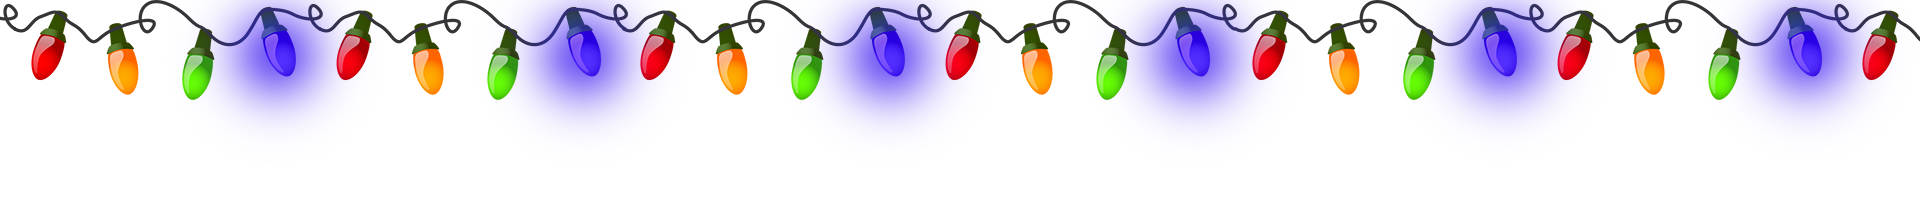
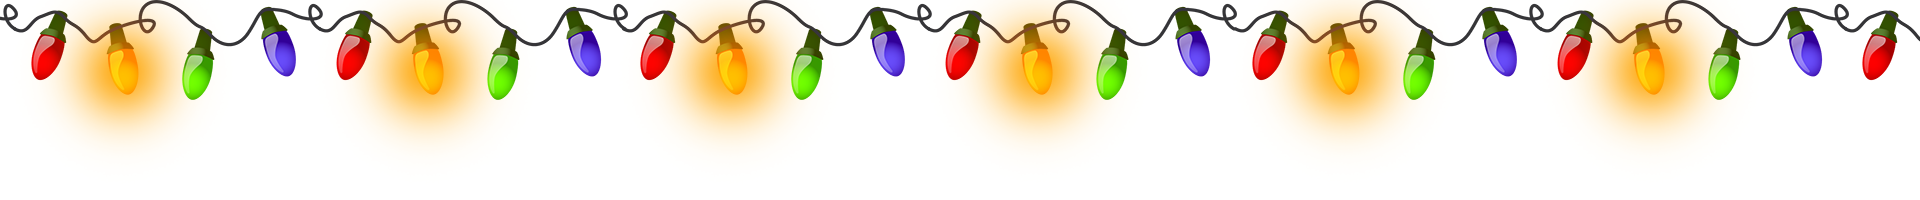
Changed Idle view to use SpriteKit for text and lights Plus implemented proper Z positioning in the SKScene

diff --git a/Quiz Server/Quiz Server/IdleViewController.swift b/Quiz Server/Quiz Server/IdleViewController.swift
@@ -12,7 +12,6 @@ import SpriteKit
 class IdleViewController: NSViewController {
 
     @IBOutlet weak var skView: SKView!
-    @IBOutlet weak var lights: NSImageView!
     
     let scene = SKScene()
     let snow = SKEmitterNode(fileNamed: "Snow")!
@@ -23,26 +22,97 @@ class IdleViewController: NSViewController {
         super.viewDidLoad()
         
         // Set up SpriteKit scene/view
+		skView.ignoresSiblingOrder = true
         scene.size = skView.bounds.size
         scene.backgroundColor = NSColor.blackColor()
 		let bgImage = SKSpriteNode(imageNamed: "1")
 		bgImage.position = CGPoint(x: scene.size.width / 2, y: scene.size.height / 2)
 		bgImage.size = scene.size
+		bgImage.zPosition = 0
         snow.position = CGPoint(x: scene.size.width / 2, y: scene.size.height + 16)
 		snow.particleBirthRate = 40
+		snow.zPosition = 11
 		
 		for i in 0...9 {
 			let snowmoji = SKEmitterNode(fileNamed: "Snowmoji")!
 			snowmoji.particleTexture = SKTexture(imageNamed: "snowmoji\(i)")
 			snowmoji.position = CGPoint(x: scene.size.width / 2, y: scene.size.height + 32)
+			snowmoji.zPosition = CGFloat(i + 1)
 			snowmojis.append(snowmoji)
 		}
 		
-		scene.addChild(bgImage)
+		let text1 = SKLabelNode(fontNamed: ".AppleSystemUIFontBold")
+		text1.text = "Computer Science"
+		text1.fontSize = 140
+		text1.horizontalAlignmentMode = .Center
+		text1.verticalAlignmentMode = .Center
+		text1.position = CGPoint(x: 0, y: 72)
+		text1.zPosition = 14
+		text1.fontColor = NSColor.whiteColor()
+		
+		let text2 = SKLabelNode(fontNamed: ".AppleSystemUIFontBold")
+		text2.text = "Christmas Quiz 2015"
+		text2.fontSize = 140
+		text2.horizontalAlignmentMode = .Center
+		text2.verticalAlignmentMode = .Center
+		text2.position = CGPoint(x: 0, y: -85)
+		text2.zPosition = 14
+		text2.fontColor = NSColor.whiteColor()
+		
+		let text = SKNode()
+		text.position = CGPoint(x: 960, y: 820)
+		text.zPosition = 14
+		text.addChild(text1)
+		text.addChild(text2)
+		
+		let shadowText1 = SKLabelNode(fontNamed: ".AppleSystemUIFontBold")
+		shadowText1.text = "Computer Science"
+		shadowText1.fontSize = 140
+		shadowText1.fontColor = NSColor(white: 0.0, alpha: 0.8)
+		shadowText1.horizontalAlignmentMode = .Center
+		shadowText1.verticalAlignmentMode = .Center
+		shadowText1.position = CGPoint(x: 0, y: 72)
+		shadowText1.zPosition = 13
+		
+		let shadowText2 = SKLabelNode(fontNamed: ".AppleSystemUIFontBold")
+		shadowText2.text = "Christmas Quiz 2015"
+		shadowText2.fontSize = 140
+		shadowText2.fontColor = NSColor(white: 0.0, alpha: 0.8)
+		shadowText2.horizontalAlignmentMode = .Center
+		shadowText2.verticalAlignmentMode = .Center
+		shadowText2.position = CGPoint(x: 0, y: -85)
+		shadowText2.zPosition = 13
+		
+		let textShadow = SKEffectNode()
+		textShadow.shouldEnableEffects = true
+		textShadow.shouldRasterize = true
+		textShadow.zPosition = 13
+		let filter = CIFilter(name: "CIGaussianBlur")
+		filter?.setDefaults()
+		filter?.setValue(25, forKey: "inputRadius")
+		textShadow.filter = filter;
+		textShadow.position = CGPoint(x: 960, y: 820)
+		textShadow.addChild(shadowText1)
+		textShadow.addChild(shadowText2)
+		
+		let lights = SKSpriteNode(imageNamed: "lights")
+		lights.position = CGPoint(x: 960, y: 985)
+		lights.zPosition = 12
+		var lightsTextures = [SKTexture]()
+		for i in 1...4 {
+			lightsTextures.append(SKTexture(imageNamed: "lights\(i)"))
+		}
+		let lightsAction = SKAction.repeatActionForever(SKAction.animateWithTextures(lightsTextures, timePerFrame: 1.0))
+		lights.runAction(lightsAction)
+		
 		for node in snowmojis {
 			scene.addChild(node)
 		}
+		scene.addChild(bgImage)
         scene.addChild(snow)
+		scene.addChild(text)
+		scene.addChild(textShadow)
+		scene.addChild(lights)
 		skView.presentScene(scene)
     }
     
@@ -51,16 +121,6 @@ class IdleViewController: NSViewController {
 		for node in snowmojis {
 			node.particleBirthRate = 0
 		}
-		
-		// Add animated lights
-		let images = [NSImage(named: "lights4")!, NSImage(named: "lights3")!, NSImage(named: "lights2")!, NSImage(named: "lights1")!, NSImage(named: "lights4")!]
-		let animation = CAKeyframeAnimation(keyPath: "contents")
-		animation.calculationMode = kCAAnimationCubic
-		animation.duration = 6.0
-		animation.repeatCount = Float.infinity
-		animation.values = images
-		lights.layer?.removeAllAnimations()
-		lights.layer?.addAnimation(animation, forKey:"contents")
     }
     
     func buzzerPressed(team: Int) {
